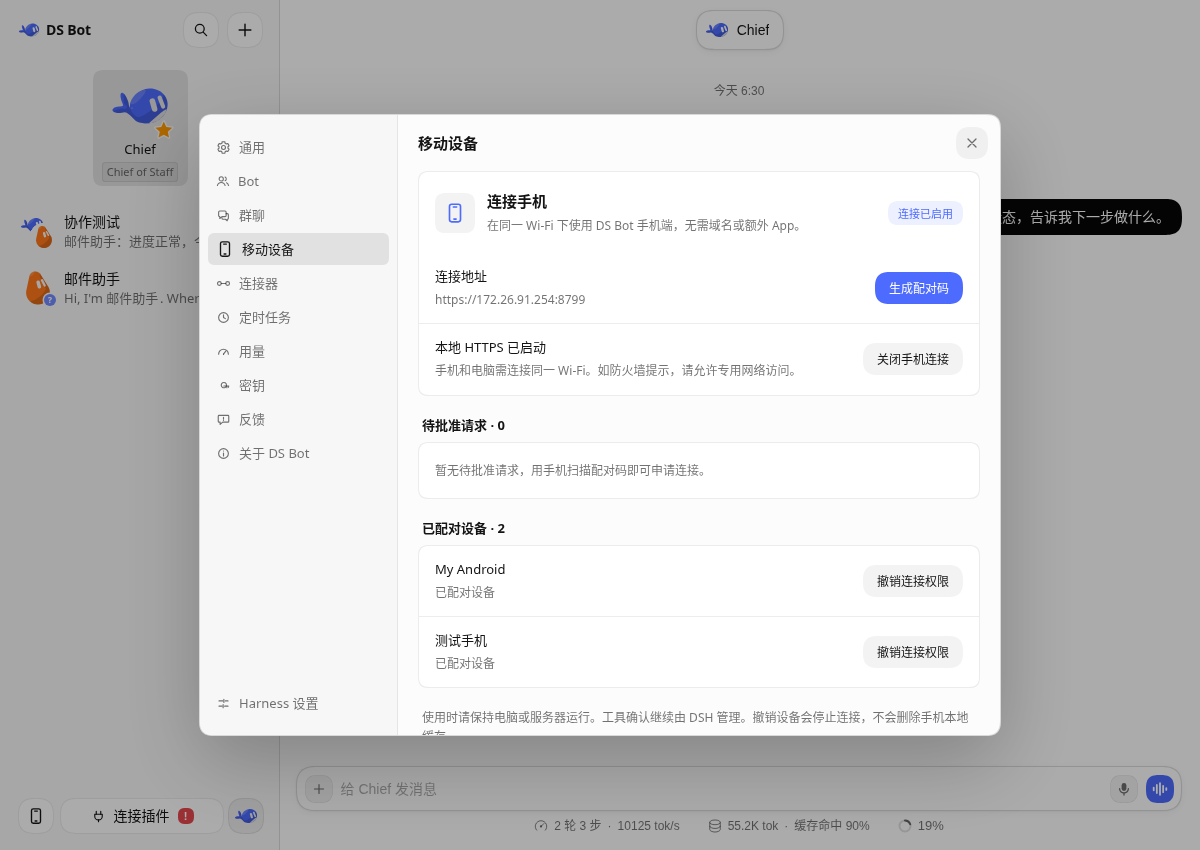
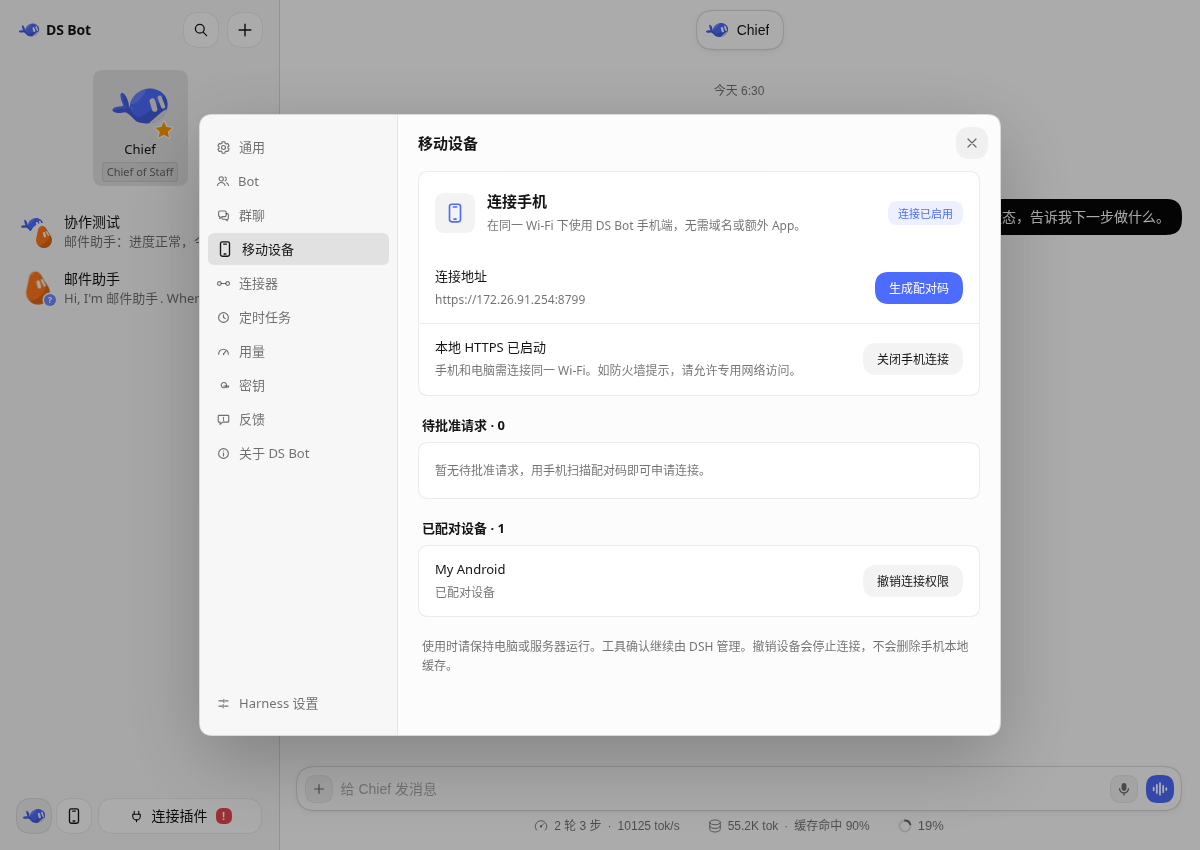
Align the empty composer and move footer controls left
Keep the empty input capsule level with the attachment circle while allowing typed text to grow. Keep wrapped placeholders from changing its empty height.

Place the whale before the phone at the left of the desktop footer and retain a compact layout when collapsed. Verify both actions and native input growth, clearing and long placeholders.

Changed region(s): [[0.3392, 0.7341, 0.8017, 0.7953], [0.3392, 0.8259, 0.8017, 0.8565], [0.0, 0.9482, 0.2158, 0.9788]]

diff --git a/apps/mobile/src/components/MediaComposer.tsx b/apps/mobile/src/components/MediaComposer.tsx
@@ -301,16 +301,16 @@ export function MediaComposer({
       <Notice capsule text={busy} />
       <Notice capsule error text={error} />
       <View pointerEvents="box-none" style={{flexDirection:"row",alignItems:"flex-end",gap:10}}>
-        <View pointerEvents="box-none" style={{height:56,justifyContent:"center"}}><IconButton name="plus" label={tr("Attach")} floating size={48} disabled={disabled || !!busy || state.isRecording}
+        <View pointerEvents="box-none" style={{height:48,justifyContent:"center"}}><IconButton name="plus" label={tr("Attach")} floating size={48} disabled={disabled || !!busy || state.isRecording}
           onPress={() => {Keyboard.dismiss();setError("");setOpen(true);}}/>
         </View>
-        <View pointerEvents="box-none" style={{flex:1,flexDirection:"row",alignItems:"flex-end",minHeight:56,borderRadius:24,borderWidth:1,borderColor:t.line,backgroundColor:t.surface,padding:5,gap:2}}>
+        <View pointerEvents="box-none" style={{flex:1,flexDirection:"row",alignItems:"flex-end",minHeight:48,borderRadius:24,borderWidth:1,borderColor:t.line,backgroundColor:t.surface,padding:1,gap:2}}>
           {children}
         </View>
       </View>
       <Modal transparent visible={open} animationType="fade" onRequestClose={() => setOpen(false)} onDismiss={afterMenuDismiss}>
         <Pressable accessibilityRole="button" accessibilityLabel={tr("Close attachment menu")} onPress={() => setOpen(false)} style={{flex:1,backgroundColor:t.dark ? "#00000040" : "#00000008"}}/>
-        <View style={{position:"absolute",bottom:insets.bottom + 80,left:20,width:316,maxWidth:"90%",backgroundColor:t.surface,borderWidth:1,borderColor:t.line,borderRadius:26,padding:10}}>
+        <View style={{position:"absolute",bottom:insets.bottom + 72,left:20,width:316,maxWidth:"90%",backgroundColor:t.surface,borderWidth:1,borderColor:t.line,borderRadius:26,padding:10}}>
           {([['folder','Choose a file',document],['camera','Take a photo',()=>image(true)],['image','Attach image',()=>image(false)]] as const).map(([icon,label,action]) =>
             <Pressable key={label} accessibilityRole="button" accessibilityLabel={tr(label)} accessibilityState={{disabled:!!busy || disabled}}
               disabled={!!busy || disabled} onPress={action} style={({pressed})=>({minHeight:50,flexDirection:"row",alignItems:"center",gap:16,paddingHorizontal:16,borderRadius:999,backgroundColor:pressed?t.hover:undefined,opacity:!!busy || disabled ? .5 : 1})}>

diff --git a/ds-bot/client.js b/ds-bot/client.js
@@ -5356,9 +5356,9 @@ function FooterAccount(props) {
   const seated = props.useUi((value) => value.accountSeated === true);
   return (0, import_react8.createElement)(
     "span",
-    { className: "bt-foot-account" },
-    (0, import_react8.createElement)("button", { type: "button", className: "bt-round bt-mobile-launcher", "aria-label": t("Mobile devices"), title: t("Mobile devices"), onClick: () => props.actions.openSettings("mobile") }, (0, import_react8.createElement)(PhoneIcon)),
-    seated ? null : (0, import_react8.createElement)(AccountLauncher, { ...props, seat: false })
+    { className: "bt-foot-account", "data-rail": props.wide ? void 0 : "" },
+    seated ? null : (0, import_react8.createElement)(AccountLauncher, { ...props, seat: false }),
+    (0, import_react8.createElement)("button", { type: "button", className: "bt-round bt-mobile-launcher", "aria-label": t("Mobile devices"), title: t("Mobile devices"), onClick: () => props.actions.openSettings("mobile") }, (0, import_react8.createElement)(PhoneIcon))
   );
 }
 function BotReturn({ wide, useSurface, actions }) {
@@ -5400,7 +5400,9 @@ var SIDEBAR_CSS = `
 .bt-foot-account{order:-1;flex:none;display:inline-flex;align-items:center;gap:6px}
 .bt-mobile-launcher{width:36px;height:36px;flex:none}
 [class*="_footArea"]:has(.bt-foot-account) .bt-connect-foot{order:0;flex:1 1 auto;min-width:0;width:auto}
-[class*="_footArea"]:has(.bt-foot-account)>[class*="_settingsArea"]{order:1;flex:none}
+[class*="_footArea"]:has(.bt-foot-account)>[class*="_settingsArea"]{order:-2;flex:none;margin-left:0}
+[class*="_footArea"]:has(.bt-foot-account[data-rail]){flex-direction:column!important}
+.bt-foot-account[data-rail]{flex-direction:column}
 [class*="_footArea"]:has(.bt-foot-account)>[class*="_settingsArea"] button[class*="_trigger"] [class*="_label"]{display:none!important}
 
 /* The update cloud springs in when a newer DS Bot shows up; its arrow drops in a

diff --git a/ds-bot/src/client/sidebar.js b/ds-bot/src/client/sidebar.js
@@ -538,9 +538,9 @@ function useLandOnMainBot(roster, useSessions, actions) {
 
 export function FooterAccount(props) {
   const seated = props.useUi(value => value.accountSeated === true)
-  return h('span', { className: 'bt-foot-account' },
-    h('button', { type: 'button', className: 'bt-round bt-mobile-launcher', 'aria-label': t('Mobile devices'), title: t('Mobile devices'), onClick: () => props.actions.openSettings('mobile') }, h(PhoneIcon)),
-    seated ? null : h(AccountLauncher, { ...props, seat: false }))
+  return h('span', { className: 'bt-foot-account', 'data-rail': props.wide ? undefined : '' },
+    seated ? null : h(AccountLauncher, { ...props, seat: false }),
+    h('button', { type: 'button', className: 'bt-round bt-mobile-launcher', 'aria-label': t('Mobile devices'), title: t('Mobile devices'), onClick: () => props.actions.openSettings('mobile') }, h(PhoneIcon)))
 }
 
 // The only entry registered in every mode: in Agent mode the whole Bot surface is
@@ -587,7 +587,9 @@ export const SIDEBAR_CSS = `
 .bt-foot-account{order:-1;flex:none;display:inline-flex;align-items:center;gap:6px}
 .bt-mobile-launcher{width:36px;height:36px;flex:none}
 [class*="_footArea"]:has(.bt-foot-account) .bt-connect-foot{order:0;flex:1 1 auto;min-width:0;width:auto}
-[class*="_footArea"]:has(.bt-foot-account)>[class*="_settingsArea"]{order:1;flex:none}
+[class*="_footArea"]:has(.bt-foot-account)>[class*="_settingsArea"]{order:-2;flex:none;margin-left:0}
+[class*="_footArea"]:has(.bt-foot-account[data-rail]){flex-direction:column!important}
+.bt-foot-account[data-rail]{flex-direction:column}
 [class*="_footArea"]:has(.bt-foot-account)>[class*="_settingsArea"] button[class*="_trigger"] [class*="_label"]{display:none!important}
 
 /* The update cloud springs in when a newer DS Bot shows up; its arrow drops in a

diff --git a/apps/mobile/src/screens/ChatScreen.tsx b/apps/mobile/src/screens/ChatScreen.tsx
@@ -497,6 +497,8 @@ export function ChatScreen({
               includeFontPadding: false,
               minHeight: 44,
               maxHeight: 150,
+              // Wrapped placeholders must not make an empty composer grow.
+              height: composer.text.length === 0 ? 44 : undefined,
             }}
           />
           <IconButton primary brand size={44}

diff --git a/docs/mobile-validation.zh.md b/docs/mobile-validation.zh.md
@@ -144,3 +144,11 @@ Android 11 不覆盖 Android 13 通知权限、Android 14+ 前台服务限制、
 - 新增[插件移动设备页截图](images/mobile/plugin-devices.zh.png)与[无控制投影的 App 聊天截图](images/mobile/chat-polish.en.png)。两者使用隔离 DSH 和 mock 模型；App 截图取自已签名的 Android 本地构建，不含系统状态栏和导航栏。来源与 APK 校验值见[补充截图元数据](images/mobile/ui-polish.json)。
 - 已签名 Android 11 模拟器完成 8 项定向检查：顶部安全区留白、单一发送按钮与圆形附件入口、长文本 150 px 与删空恢复 44 px、两种输入状态均在真实 IME 边界上方，以及设置关闭气泡和工具子页导航。另抓取夜间模式与附件菜单确认无投影。启动期间的 System UI ANR 已处理；切换系统导航栏时模拟器未提供导航栏 Insets 数据，该检查未计为通过。
 - 本次没有重新发布 Release；iOS 与实体手机未复测。
+
+
+## 2026-10-13：空输入框对齐与插件入口顺序
+
+- App 输入胶囊的默认高度由 56 dp 收到 48 dp，与 48 dp 附件圆球的上下边缘对齐。内部发送按钮仍为 44 dp，收紧内边距；输入长文本继续自然增长。空文本时固定输入区域为 44 dp，避免长 Bot 名称的占位文字把空胶囊撑高。附件菜单随新的底部高度上移锚点调整。
+- 电脑插件底部左侧顺序改为小鲸鱼、手机，连接插件位于其后；侧边栏收起后纵向排列，保留两个入口的功能。
+- 540 项插件测试、生成文件检查、静态检查、58 项 App 测试及 TypeScript 检查通过。真实 DSH Web 验证展开/收起的顺序和两个入口的操作；已签名 Android 构建与设备安装包的 SHA-256 相同，完成 4 项定向检查：空输入框边缘对齐、长文本伸展至 150 dp、删空恢复对齐，以及长占位名称不撑高空输入框。另抓取夜间模式确认布局。
+- 更新了补充截图及其 APK 校验值；未重新发布 Release，iOS 和实体手机未复测。
